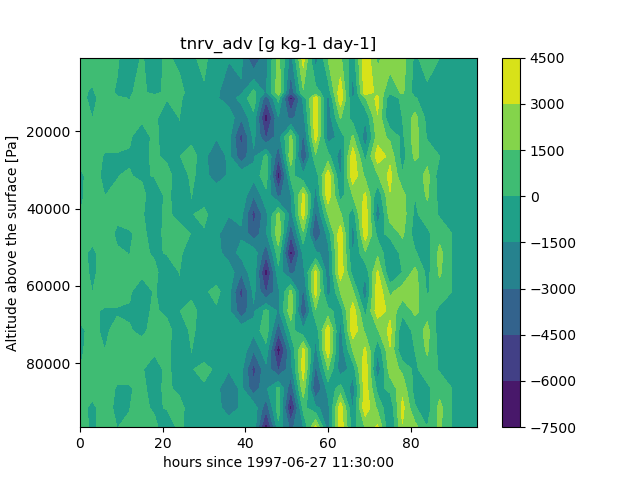
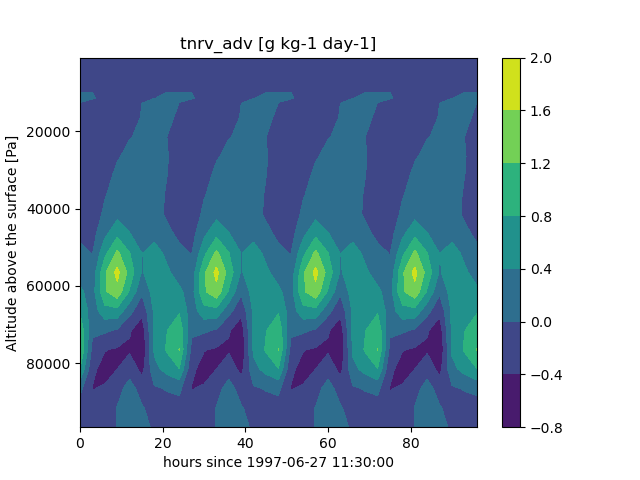
Fix erreur sur EUROCS du commit précédent
On a fait une erreur de manip git avec Fleur.
Celui là est le bon !!!

diff --git a/EUROCS/REF/driver_DEF_EUROCS_REF_new.py b/EUROCS/REF/driver_DEF_EUROCS_REF_new.py
@@ -69,11 +69,11 @@ case.add_init_theta(th, lev=P, levtype='pressure')
 case.add_init_rv(rv, lev=P, levtype='pressure')
 print('Psize',P.shape,'thsize',th.shape)
 # Altitude above the ground
-Pu= np.genfromtxt('init_uv.txt',dtype=None,skip_header=1,usecols=0)
+Pu= np.genfromtxt('init_uv.txt',dtype=None,skip_header=0,usecols=0)
 
 # Zonal and meridional wind
-u = np.genfromtxt('init_uv.txt',dtype=None,skip_header=1,usecols=1)
-v = np.genfromtxt('init_uv.txt',dtype=None,skip_header=1,usecols=2)
+u = np.genfromtxt('init_uv.txt',dtype=None,skip_header=0,usecols=1)
+v = np.genfromtxt('init_uv.txt',dtype=None,skip_header=0,usecols=2)
 
 case.add_init_wind(u=u,v=v, lev=Pu, levtype='pressure')
 
@@ -108,39 +108,31 @@ psforc=np.genfromtxt('Forc_Tq_sfc.txt',dtype=None,skip_header=0, usecols=5)
 thsforc=np.genfromtxt('Forc_Tq_sfc.txt',dtype=None,skip_header=0, usecols=6)
 rvsforc=np.genfromtxt('Forc_Tq_sfc.txt',dtype=None,skip_header=0, usecols=7)
 
+ntimes=len(Timeforc)
+
 Pfrck=np.genfromtxt('Forc_Tq.txt',dtype=None,skip_header=0, usecols=0)
 Pfrck = np.array(Pfrck,dtype=np.float64)
-Pfrck = np.reshape(Pfrck, (33,nk))
-Pfrck = Pfrck.transpose()
-Pfrck1D=Pfrck[:,0]
+Pfrck = np.reshape(Pfrck, (ntimes,nk))
+Pfrck1D=Pfrck[0,:]
 print('Pfrc 1D=',Pfrck1D.shape,'nk=',nk)
 ufrck=np.genfromtxt('Forc_Tq.txt',dtype=None,skip_header=0, usecols=1)
 ufrck = np.array(ufrck,dtype=np.float64)
-ufrck = np.reshape(ufrck, (33,nk))
-ufrck = ufrck.transpose()
+ufrck = np.reshape(ufrck, (ntimes,nk))
 vfrck=np.genfromtxt('Forc_Tq.txt',dtype=None,skip_header=0, usecols=2)
 vfrck = np.array(vfrck,dtype=np.float64)
-vfrck = np.reshape(vfrck, (33,nk))
-vfrck = vfrck.transpose()
+vfrck = np.reshape(vfrck, (ntimes,nk))
 thfrck=np.genfromtxt('Forc_Tq.txt',dtype=None,skip_header=0, usecols=3)
 thfrck = np.array(thfrck,dtype=np.float64)
-thfrck = np.reshape(thfrck, (33,nk))
-thfrck = thfrck.transpose()
+thfrck = np.reshape(thfrck, (ntimes,nk))
 rvfrck=np.genfromtxt('Forc_Tq.txt',dtype=None,skip_header=0, usecols=4)
 rvfrck = np.array(rvfrck,dtype=np.float64)
-rvfrck = np.reshape(rvfrck, (33,nk))
-rvfrck = rvfrck.transpose()
-dthdtfrck=np.genfromtxt('Forc_Tq.txt',dtype=None,skip_header=0, usecols=5)
+rvfrck = np.reshape(rvfrck, (ntimes,nk))
+dthdtfrck=np.genfromtxt('Forc_Tq.txt',dtype=None,skip_header=0, usecols=6)
 dthdtfrck = np.array(dthdtfrck,dtype=np.float64)
-dthdtfrck = np.reshape(dthdtfrck, (33,nk))
-dthdtfrck = dthdtfrck.transpose()
-drvdtfrck=np.genfromtxt('Forc_Tq.txt',dtype=None,skip_header=0, usecols=6)
+dthdtfrck = np.reshape(dthdtfrck, (ntimes,nk))
+drvdtfrck=np.genfromtxt('Forc_Tq.txt',dtype=None,skip_header=0, usecols=7)
 drvdtfrck = np.array(drvdtfrck,dtype=np.float64)
-drvdtfrck = np.reshape(drvdtfrck, (33,nk))
-drvdtfrck = drvdtfrck.transpose()
-print('Pfrck t=1',Pfrck[:,0],'ufrck t=1',ufrck[:,1],'thfrck t=1',thfrck[:,0])
-print('Pfrck t=2',Pfrck[:,1],'ufrck t=2',ufrck[:,1],'thfrck t=2',thfrck[:,1])
-print('Pfrck size',Pfrck.shape,Timeforc.shape,dthdtfrck.shape)
+drvdtfrck = np.reshape(drvdtfrck, (ntimes,nk))
 
 ##################################################################################
 #ATTENTION POUR L INSTANT POUR ARCHIVE ON A GARDE l INFO SUR LA tENDANCE RADIATIVE
@@ -301,6 +293,8 @@ tsSfc = np.genfromtxt('sfceforcing_ts.txt',dtype=None,skip_header=0,usecols=0)
 
 case.add_surface_fluxes(sens=sensSfc,lat=lateSfc,time=timeSfc,forc_wind='z0',z0=0.15)
 #case.add_forcing_ts(tsSfc,time=timeSfc,z0=0.15)
+case.add_rad_ts(tsSfc,time=timeSfc)
+
 #besoin de rajouter definition de Emissivite=0.994 et Albedo=0.17
 alb=0.17
 emis=0.994
